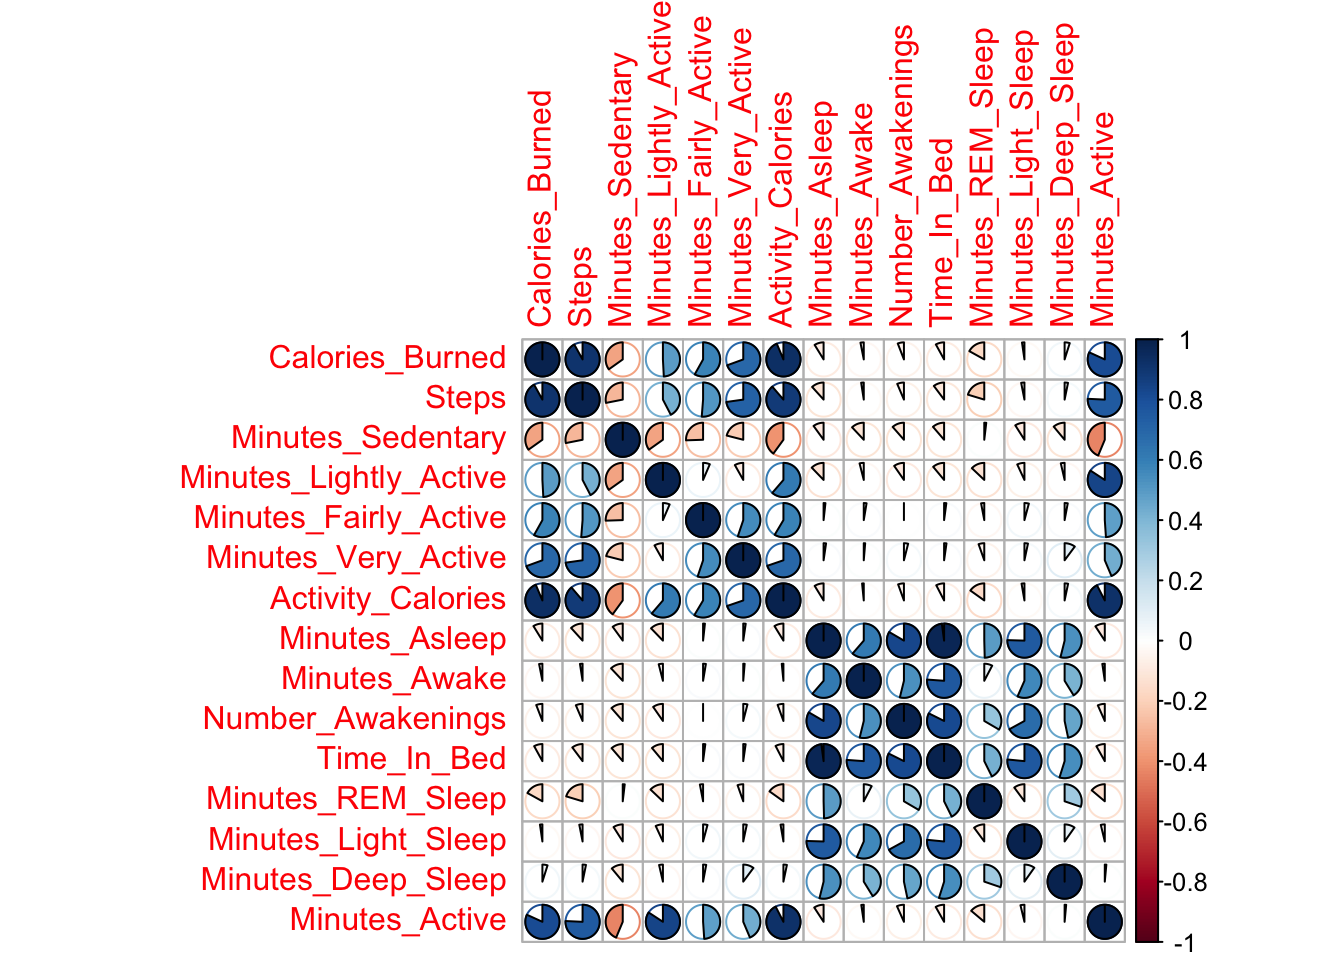
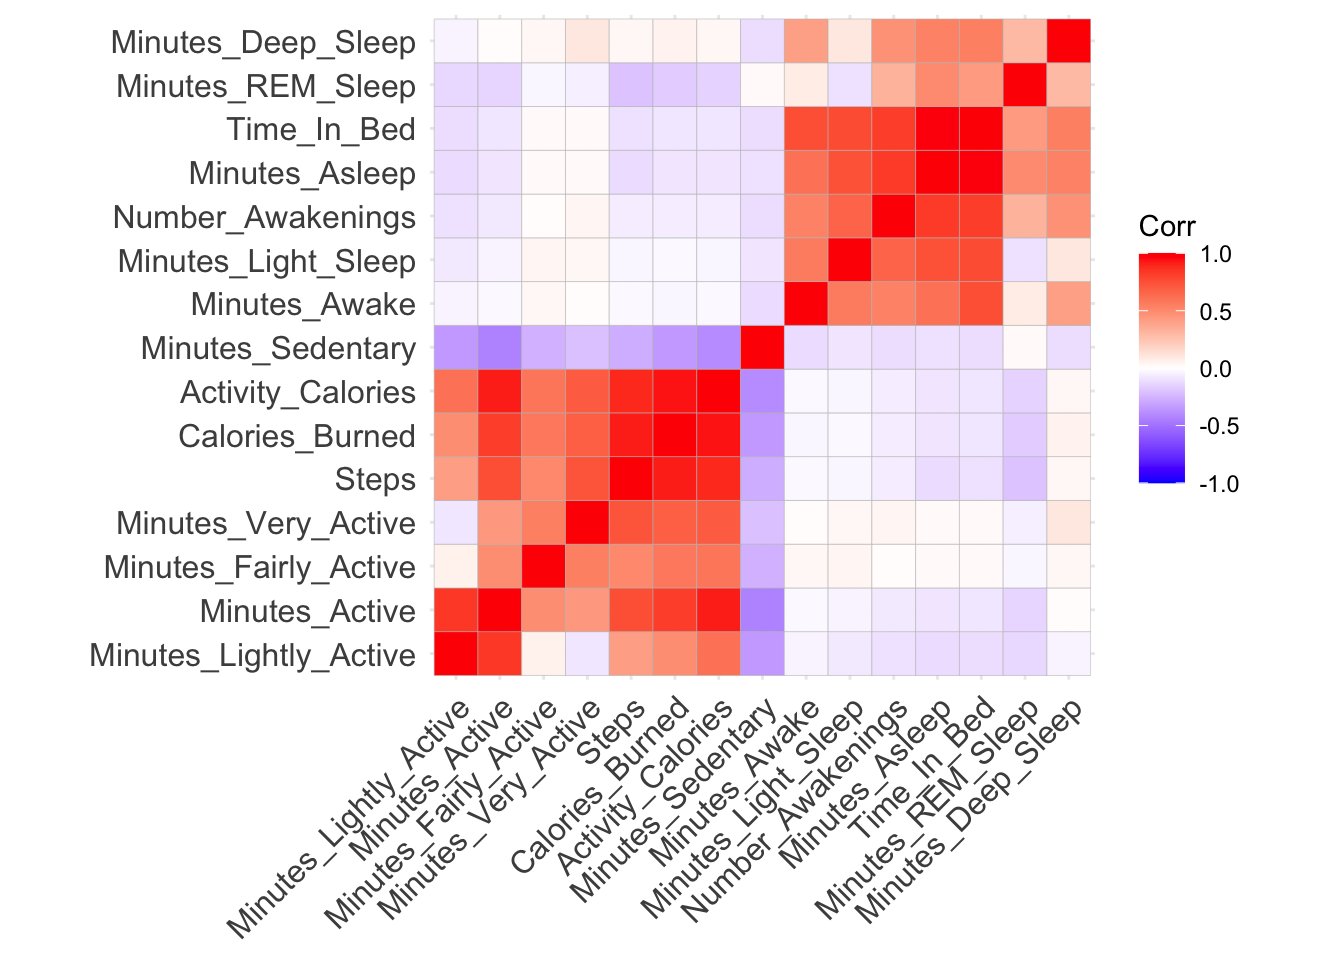
update

diff --git a/content/post/eda/index.html b/content/post/eda/index.html
@@ -30,7 +30,6 @@ projects: []
 <script src="/rmarkdown-libs/dygraphs-binding/dygraphs.js"></script>
 
 
-<p><a href="https://github.com/knitdata/Python/blob/master/Exploratory_Data_Analysis_with_Fitbit_Data.ipynb"><strong>Exploratory Data Analysis in Python</strong></a></p>
 <p>I thought it would be awesome to analyze my own data, therefore in June 2019, I started tracking activities with Fitbit. Fitbit isn’t a perfect measure of activities, but it can provide an overall idea of how active you are and how you sleep.</p>
 <p>In this post, we are going to take activities and sleep data collected for over a year and perform <strong>Exploratory Data Analysis(EDA)</strong> to find some fun and interesting insights. We will spend exploration mostly on the steps. Additionally, we will see if activities are correlated. Let’s analyze them together.</p>
 <p>First, we start by loading required libraries, and then follow EDA steps below.</p>
@@ -183,11 +182,7 @@ dygraph(ft_timeSeries, main = &quot;Time Series Plot&quot;)</code></pre>
 <h3>3.4 Correlation</h3>
 <p>Finally, let’s see if variables are correlated. Note: correlation doesn’t imply causation.</p>
 <pre class="r"><code>fitbit_data2 &lt;- fitbit_data1 %&gt;% select(-Day,-Month,-Date )
-cp &lt;- cor(fitbit_data2)
-corrplot(cp, method = &quot;pie&quot;)</code></pre>
+ggcorrplot(cor(fitbit_data2), hc.order = TRUE)</code></pre>
 <p><img src="/post/eda/index_files/figure-html/unnamed-chunk-18-1.png" width="672" /></p>
-<p>Alternatively,</p>
-<pre class="r"><code>ggcorrplot(cor(fitbit_data2), hc.order = TRUE)</code></pre>
-<p><img src="/post/eda/index_files/figure-html/unnamed-chunk-19-1.png" width="672" /></p>
 <p>Sleeping more doesn’t necessarily guarantee good REM and deep sleep. Steps are highly correlated with calories burned.</p>
 </div>

diff --git a/content/authors/admin/_index.md b/content/authors/admin/_index.md
@@ -30,6 +30,6 @@ title: Min Tamang
 
 My background is in applied statistics, data science and QA engineering. I am passionate in using analytics for extracting hidden insights. 
 
-I live in the Bay Area, California. I love hiking, reading, listening Data Science podcast and audible. I am looking to connect with the data people to gain and share insight and ideas. If you would like to connect, please leave a message. 
+I live in the Bay Area, California. I love hiking, reading, listening data science podcast and audible. I am looking to connect with the data people to gain and share insight and ideas. If you would like to connect, please leave a message. 
 
 This is a data science blog built with R package [blogdown](https://cran.r-project.org/web/packages/blogdown/index.html), [Hugo](https://gohugo.io/),[GitHub](https://github.com/knitdata/minrblog), and deployed through [Netlify](https://www.netlify.com/).
